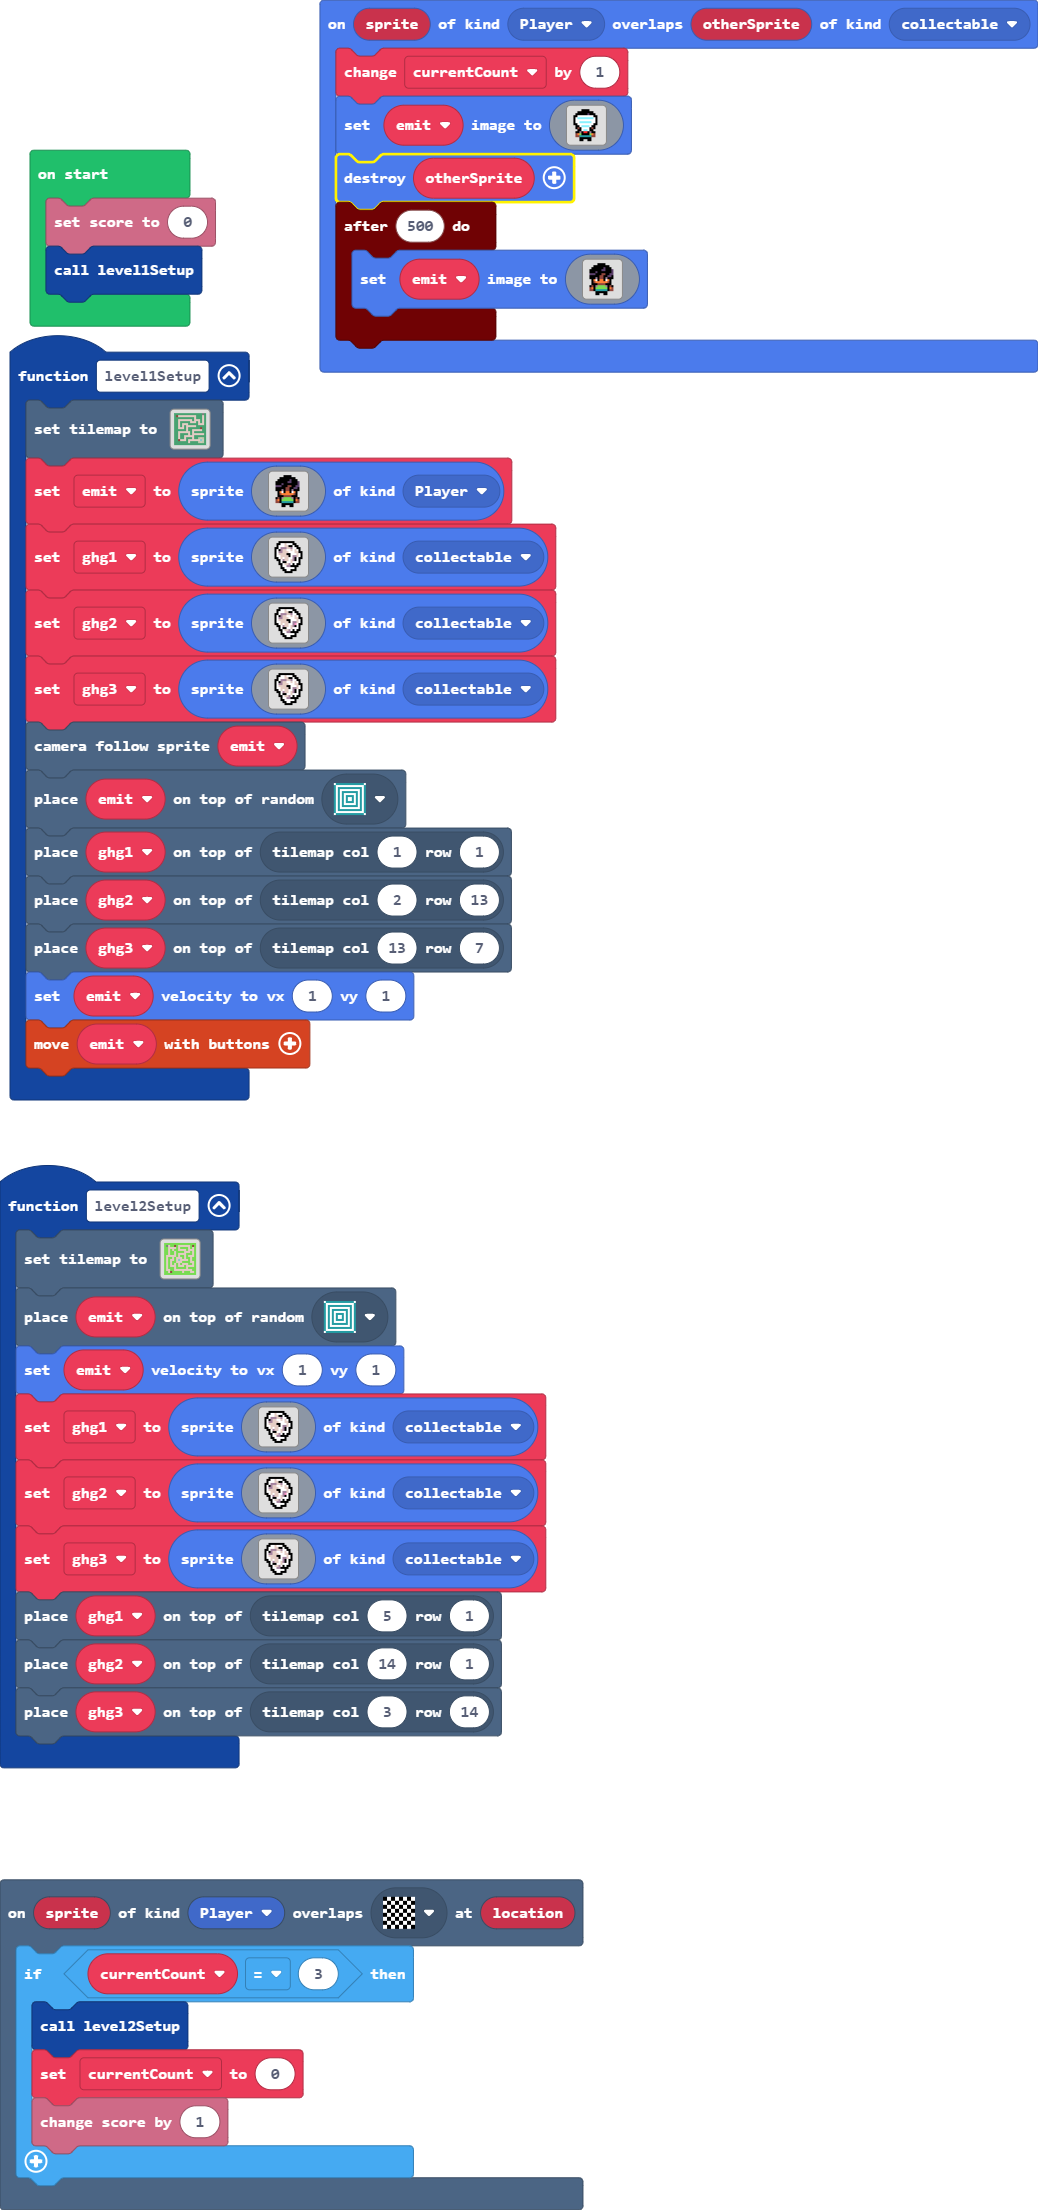
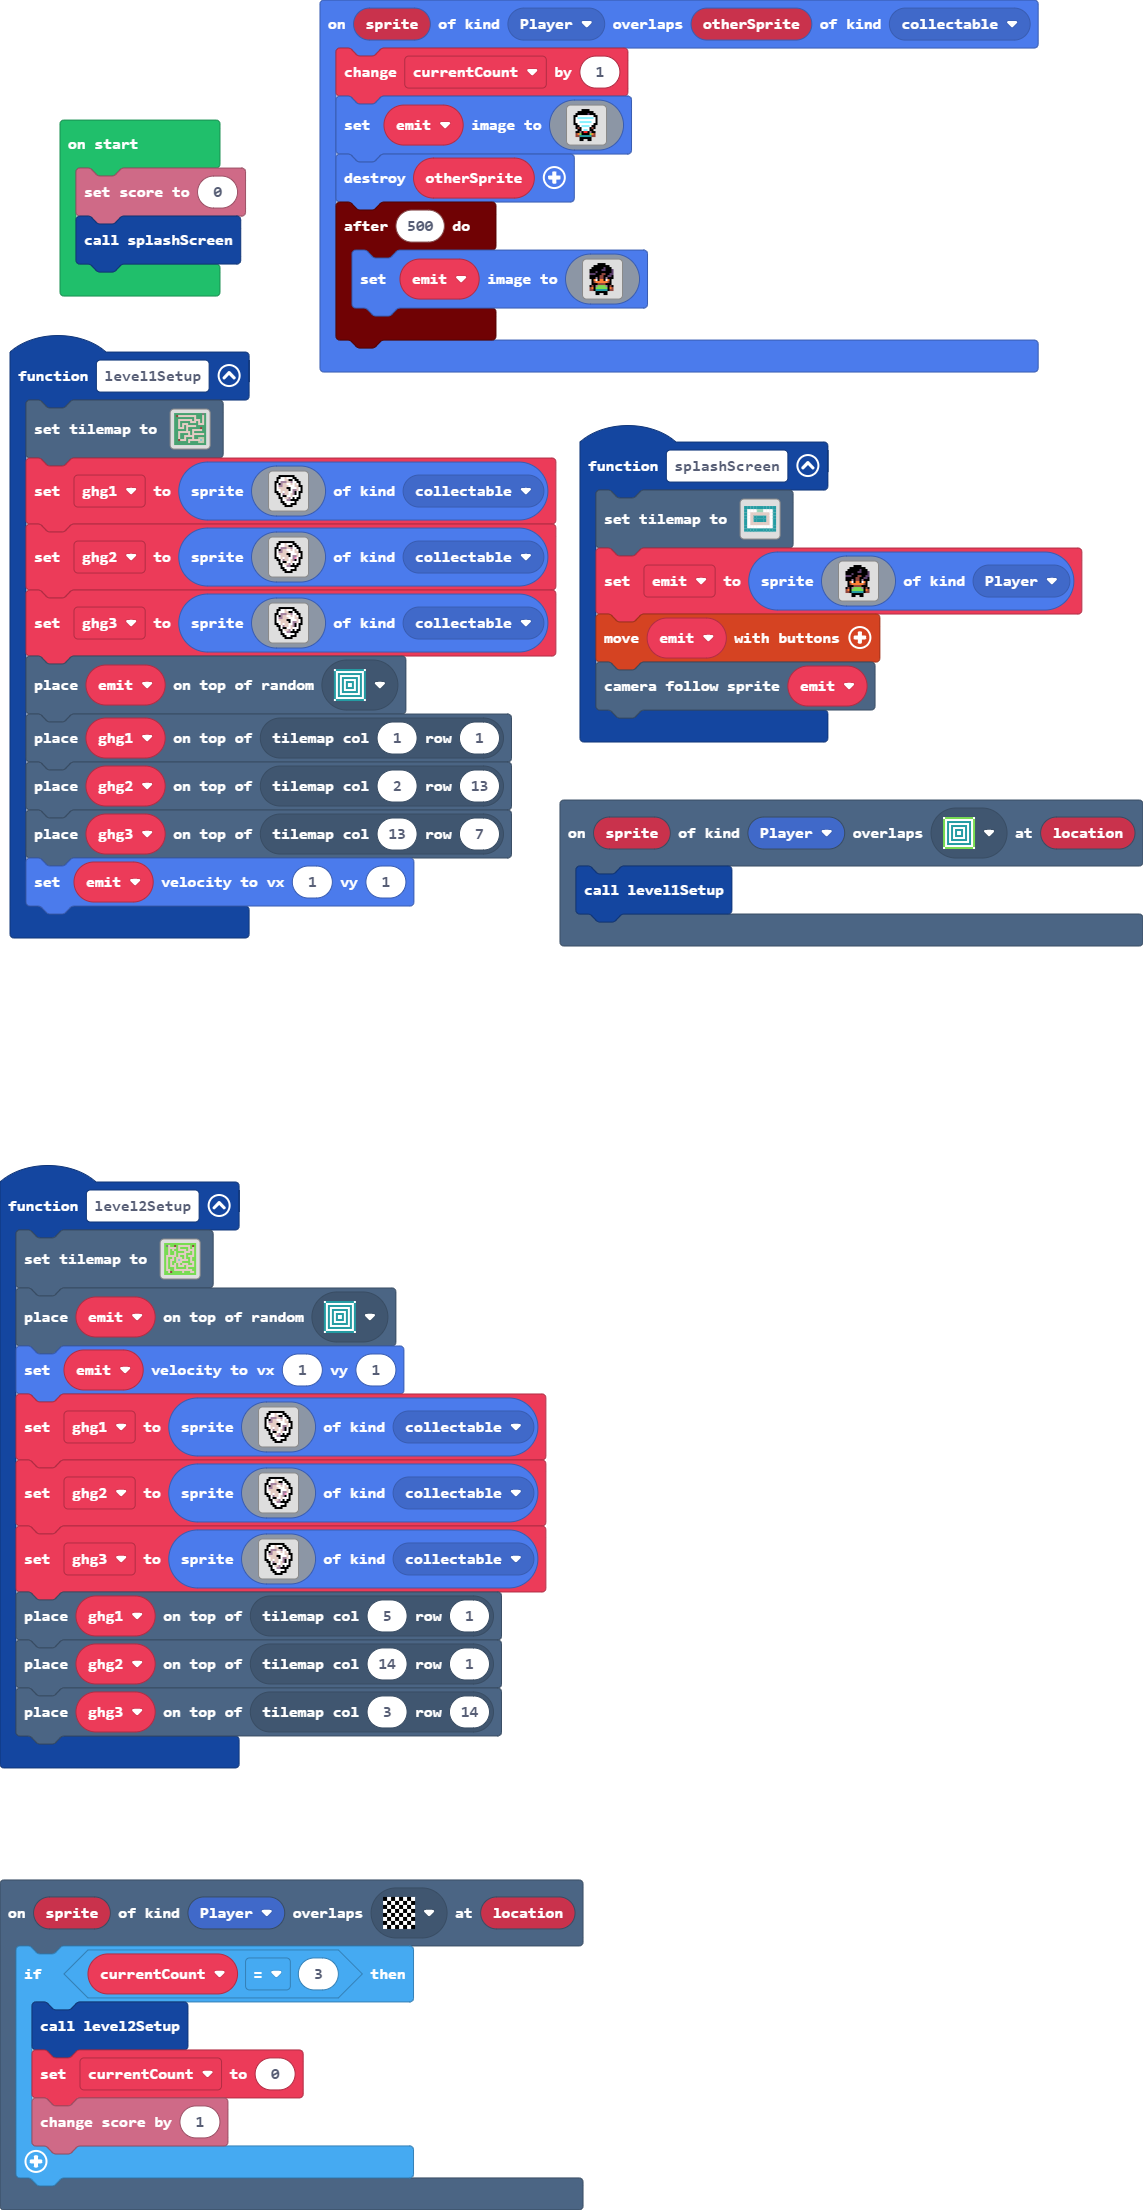
Update main.blocks, main.ts, tilemap.g.jres, tilemap.g.ts

diff --git a/tilemap.g.ts b/tilemap.g.ts
@@ -18,6 +18,14 @@ namespace myTiles {
     export const tile7 = image.ofBuffer(hex``);
     //% fixedInstance jres blockIdentity=images._tile
     export const tile8 = image.ofBuffer(hex``);
+    //% fixedInstance jres blockIdentity=images._tile
+    export const tile10 = image.ofBuffer(hex``);
+    //% fixedInstance jres blockIdentity=images._tile
+    export const tile11 = image.ofBuffer(hex``);
+    //% fixedInstance jres blockIdentity=images._tile
+    export const tile12 = image.ofBuffer(hex``);
+    //% fixedInstance jres blockIdentity=images._tile
+    export const tile9 = image.ofBuffer(hex``);
 
     helpers._registerFactory("tilemap", function(name: string) {
         switch(helpers.stringTrim(name)) {
@@ -86,6 +94,36 @@ namespace myTiles {
 2 2 . . 2 2 2 2 2 . 2 2 2 . . 2 
 2 2 2 2 2 2 2 2 2 2 2 2 2 2 2 2 
 `, [myTiles.transparency16,myTiles.tile4,sprites.castle.tilePath5,myTiles.tile1,sprites.skillmap.islandTile4,myTiles.tile7,myTiles.tile8], TileScale.Sixteen);
+            case "level4":
+            case "level4":return tiles.createTilemap(hex`1000100000000000000000000000000000000000000000000000000000000000000000000000000000000000000000000000000000000000000000000000000000000000000000000000000000000000000000000000000000000000000000000000000000000000000000000000000000000000000000000000000000000000000000000000000000000000000000000000000000000000000000000000000000000000000000000000000000000000000000000000000000000000000000000000000000000000000000000000000000000000000000000000000000000000000000000000000000000000000000000000000000000000000000000000000000000000`, img`
+. . . . . . . . . . . . . . . . 
+. . . . . . . . . . . . . . . . 
+. . . . . . . . . . . . . . . . 
+. . . . . . . . . . . . . . . . 
+. . . . . . . . . . . . . . . . 
+. . . . . . . . . . . . . . . . 
+. . . . . . . . . . . . . . . . 
+. . . . . . . . . . . . . . . . 
+. . . . . . . . . . . . . . . . 
+. . . . . . . . . . . . . . . . 
+. . . . . . . . . . . . . . . . 
+. . . . . . . . . . . . . . . . 
+. . . . . . . . . . . . . . . . 
+. . . . . . . . . . . . . . . . 
+. . . . . . . . . . . . . . . . 
+. . . . . . . . . . . . . . . . 
+`, [myTiles.transparency16], TileScale.Sixteen);
+            case "splashScreen1":
[1 lines of base64/hex data omitted]
+. . . 2 2 2 2 . . . 
+. 2 2 2 . . 2 2 2 . 
+. 2 . . . . . . 2 . 
+. 2 . . . . . . 2 . 
+. 2 . . . . . . 2 . 
+. 2 . . . . . . 2 . 
+. 2 2 2 . . 2 2 2 . 
+. . . 2 2 2 2 . . . 
+`, [myTiles.transparency16,myTiles.tile10,myTiles.tile11,sprites.castle.tilePath5,myTiles.tile9], TileScale.Sixteen);
         }
         return null;
     })
@@ -109,6 +147,14 @@ namespace myTiles {
             case "tile7":return tile7;
             case "badTile1":
             case "tile8":return tile8;
+            case "myTile1":
+            case "tile10":return tile10;
+            case "myTile2":
+            case "tile11":return tile11;
+            case "myTile0":
+            case "tile12":return tile12;
+            case "startGame":
+            case "tile9":return tile9;
         }
         return null;
     })

diff --git a/main.ts b/main.ts
@@ -19,19 +19,25 @@ scene.onOverlapTile(SpriteKind.Player, assets.tile`end-tile`, function (sprite, 
         info.changeScoreBy(1)
     }
 })
+scene.onOverlapTile(SpriteKind.Player, assets.tile`startGame`, function (sprite, location) {
+    level1Setup()
+})
 function level1Setup () {
     tiles.setTilemap(tilemap`l1`)
-    emit = sprites.create(assets.image`myImage`, SpriteKind.Player)
     ghg1 = sprites.create(assets.image`gas1`, SpriteKind.collectable)
     ghg2 = sprites.create(assets.image`gas2`, SpriteKind.collectable)
     ghg3 = sprites.create(assets.image`gas3`, SpriteKind.collectable)
-    scene.cameraFollowSprite(emit)
     tiles.placeOnRandomTile(emit, assets.tile`teleporter`)
     tiles.placeOnTile(ghg1, tiles.getTileLocation(1, 1))
     tiles.placeOnTile(ghg2, tiles.getTileLocation(2, 13))
     tiles.placeOnTile(ghg3, tiles.getTileLocation(13, 7))
     emit.setVelocity(1, 1)
+}
+function splashScreen () {
+    tiles.setTilemap(tilemap`splashScreen1`)
+    emit = sprites.create(assets.image`myImage`, SpriteKind.Player)
     controller.moveSprite(emit)
+    scene.cameraFollowSprite(emit)
 }
 sprites.onOverlap(SpriteKind.Player, SpriteKind.collectable, function (sprite, otherSprite) {
     currentCount += 1
@@ -47,4 +53,4 @@ let ghg2: Sprite = null
 let ghg1: Sprite = null
 let emit: Sprite = null
 info.setScore(0)
-level1Setup()
+splashScreen()
